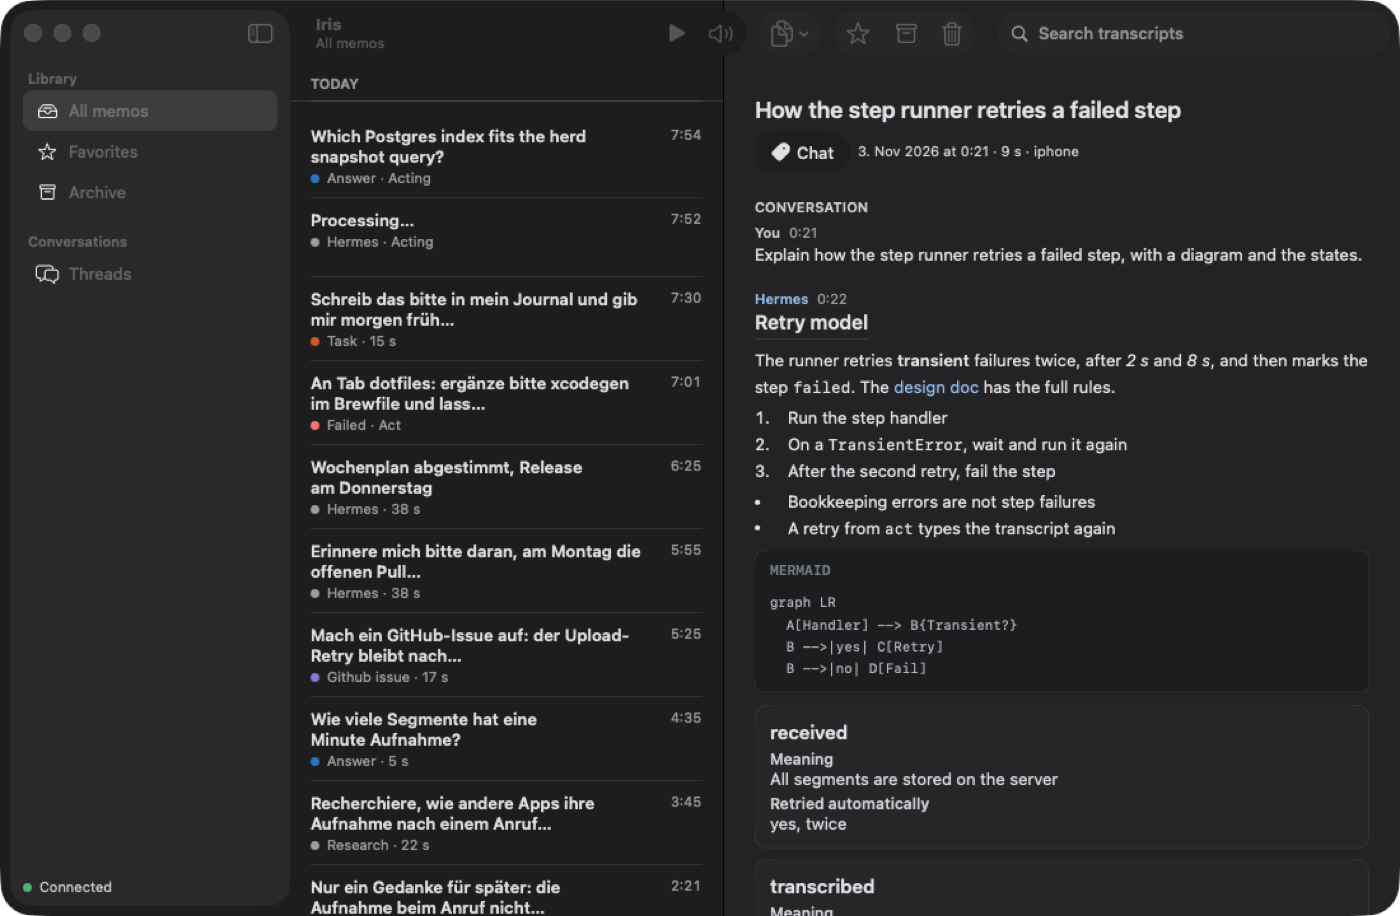
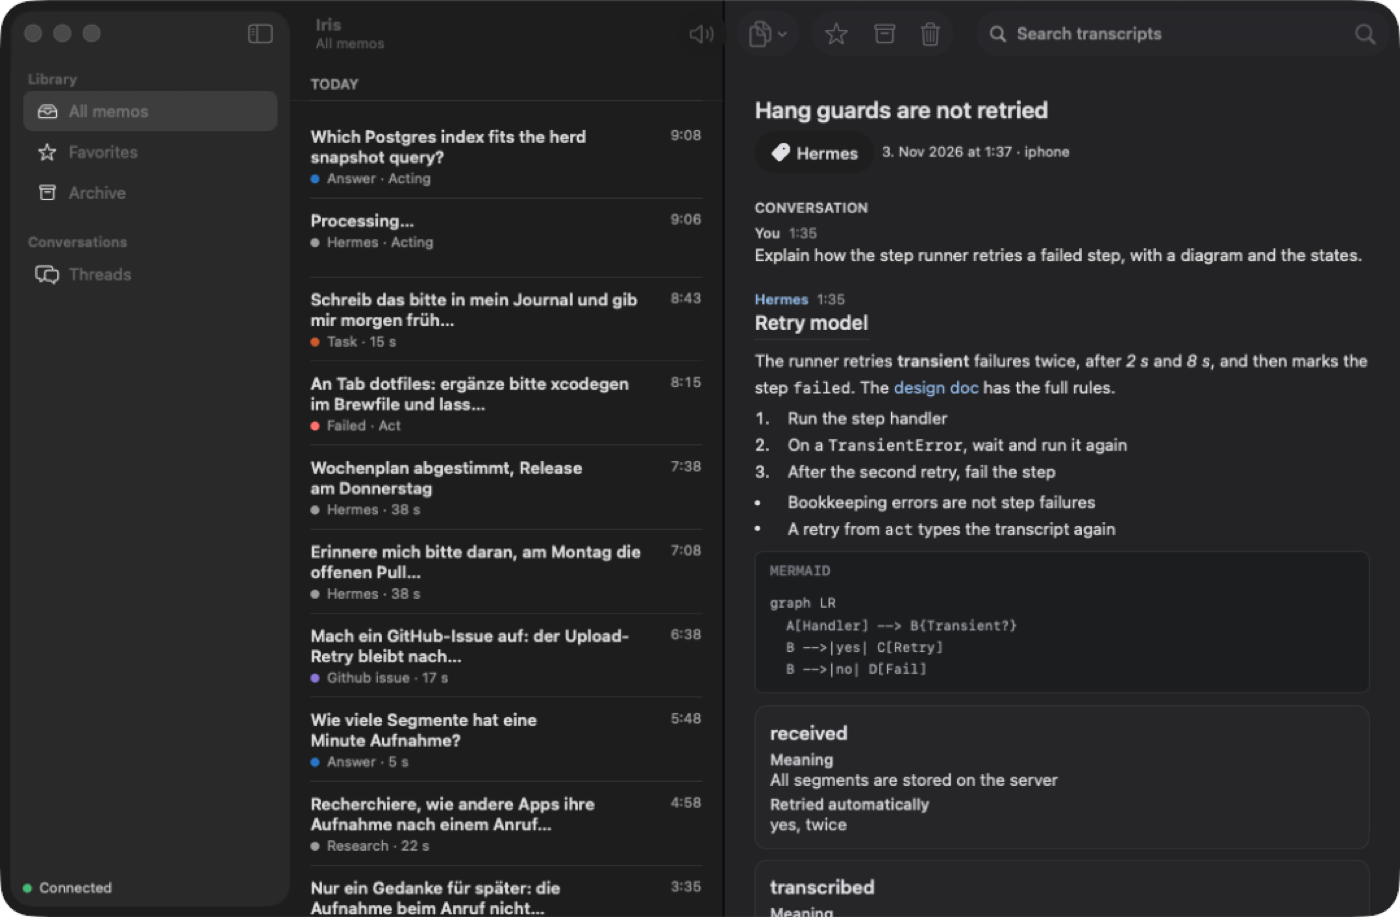
fix(mac): the snapshot walk selects a continued turn, so window-thread shows the conversation

diff --git a/apple/IrisMac/MacSnapshotRun.swift b/apple/IrisMac/MacSnapshotRun.swift
@@ -24,7 +24,7 @@
     let root: MacCompositionRoot
     /// The sample memos the main window is shown on: one with a reply, a chat thread.
     let replyMemoID: String
-    let threadMemoID = SampleData.chatThreadID
+    let threadMemoID = SampleData.chatFollowUpID
 
     init?(arguments: [String], root: MacCompositionRoot, replyMemoID: String = "0b6d1f4e-3a52-4c1d-9f0e-7a2c5d8e1b34") {
       guard let index = arguments.firstIndex(of: Self.argument), arguments.indices.contains(index + 1) else {

diff --git a/docs/design/fidelity/w21.md b/docs/design/fidelity/w21.md
@@ -25,7 +25,7 @@ the Hermes button gives way.
 | Detail, new memo (Task chip, "Hermes used: capture" under the reply) | `w21/en-light-detail-new.png` | `w21/en-dark-detail-new.png` | `w21/de-light-detail-new.png` |
 | Detail, old memo (route "Hermes", summary, route step) | `w21/en-light-detail-old.png` | `w21/en-dark-detail-old.png` | `w21/de-light-detail-old.png` |
 | Composer (Send to Hermes primary, Transcribe second) | `w21/en-light-composer.png` | `w21/en-dark-composer.png` | `w21/de-light-composer.png` |
-| Mac main window (sidebar All / Favorites / Archive / Threads) | `w21/mac-en-window-all.png`, `w21/mac-en-window-thread.png` | | `w21/mac-de-window-all.png` |
+| Mac main window (sidebar All / Favorites / Archive / Threads; the thread shot is a continued turn: conversation shown) | `w21/mac-en-window-all.png`, `w21/mac-en-window-thread.png` | | `w21/mac-de-window-all.png` |
 | Mac popover (Transcribe + Hermes pair, hotkey on Hermes) | | `w21/mac-en-menu.png` | |
 
 ## Deltas and open points
